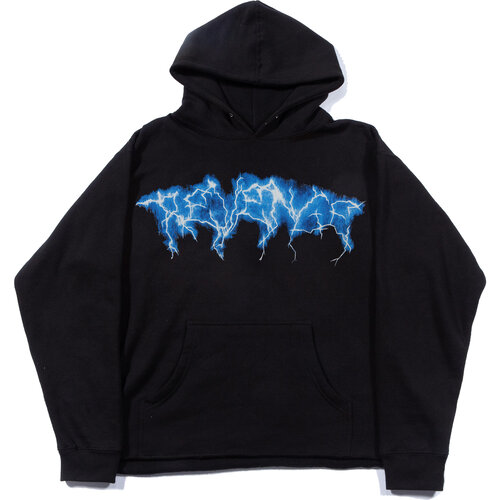
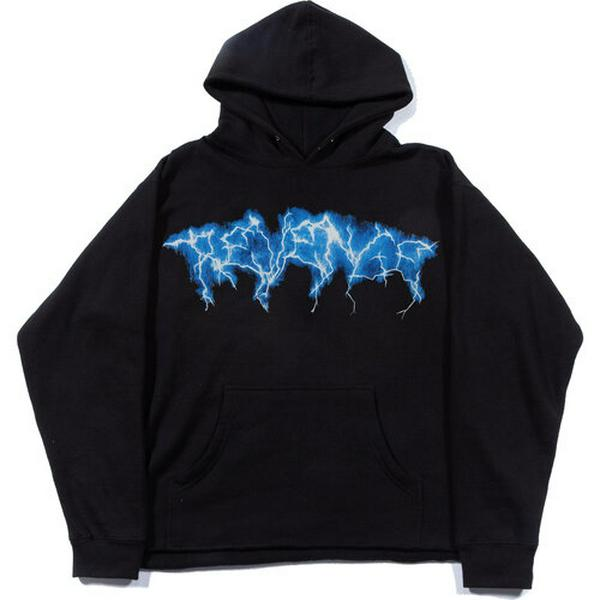
Add image compression

Changed region(s): [[0.27, 0.36, 0.72, 0.51]]

diff --git a/api/admin.go b/api/admin.go
@@ -83,7 +83,7 @@ func UpdateProduct(c *gin.Context) {
 	} else {
 		thumbnailExtension := filepath.Ext(thumbnailFile.Filename)
 		thumbnailPath = "/static/images/" + identifier + "-thumbnail" + thumbnailExtension
-		err = c.SaveUploadedFile(thumbnailFile, "."+thumbnailPath)
+		err = CompressAndSaveFile(thumbnailFile, "."+thumbnailPath)
 		if err != nil {
 			c.JSON(500, gin.H{"message": "Error saving thumbnail"})
 			return
@@ -103,7 +103,7 @@ func UpdateProduct(c *gin.Context) {
 		for i, imageFile := range imageFiles {
 			imageExtension := filepath.Ext(imageFile.Filename)
 			image := "/static/images/" + identifier + "-" + strconv.Itoa(i) + imageExtension
-			err = c.SaveUploadedFile(imageFile, "."+image)
+			err = CompressAndSaveFile(imageFile, "."+image)
 			if err != nil {
 				c.JSON(500, gin.H{"message": "Error saving images"})
 				return

diff --git a/api/utils.go b/api/utils.go
@@ -1,0 +1,33 @@
+package api
+
+import (
+	"github.com/nfnt/resize"
+	"image"
+	"image/jpeg"
+	"mime/multipart"
+	"os"
+)
+
+func CompressAndSaveFile(fileHeader *multipart.FileHeader, dest string) error {
+	file, err := fileHeader.Open()
+	if err != nil {
+		return err
+	}
+
+	img, _, err := image.Decode(file)
+	if err != nil {
+		return err
+	}
+
+	resized := resize.Resize(600, 600, img, resize.Lanczos3)
+
+	out, err := os.Create(dest)
+	if err != nil {
+		return err
+	}
+	defer out.Close()
+
+	err = jpeg.Encode(out, resized, nil)
+
+	return err
+}
